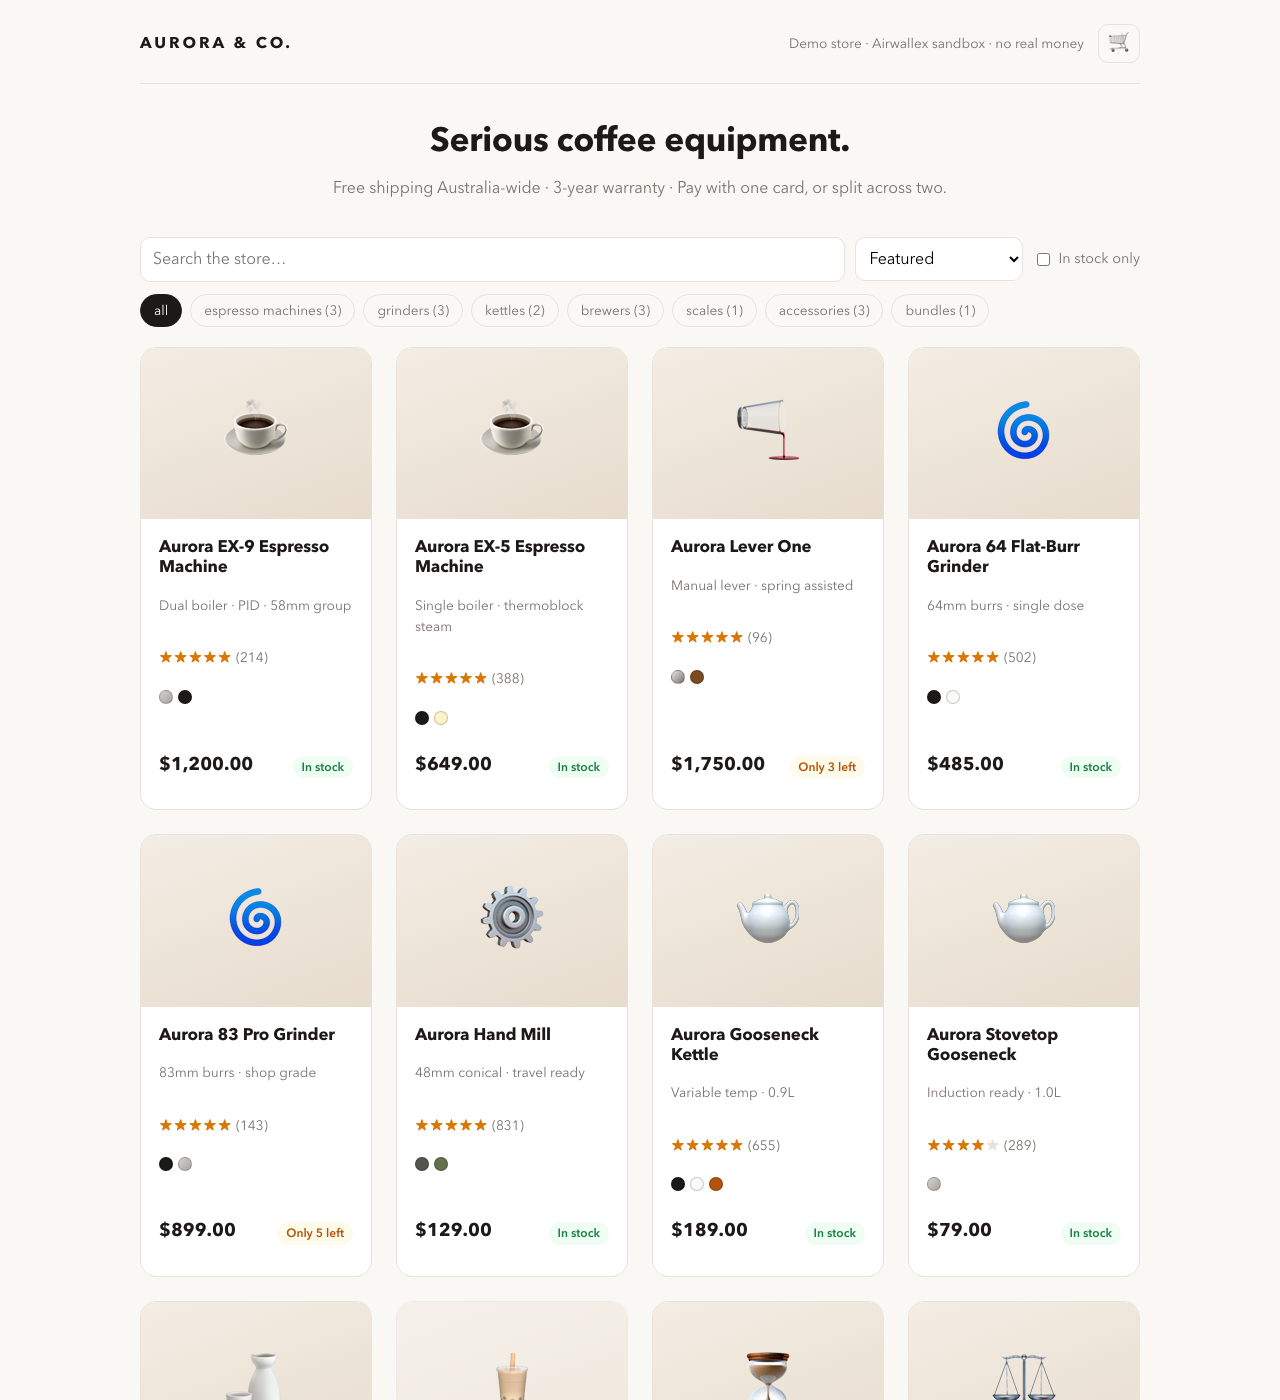
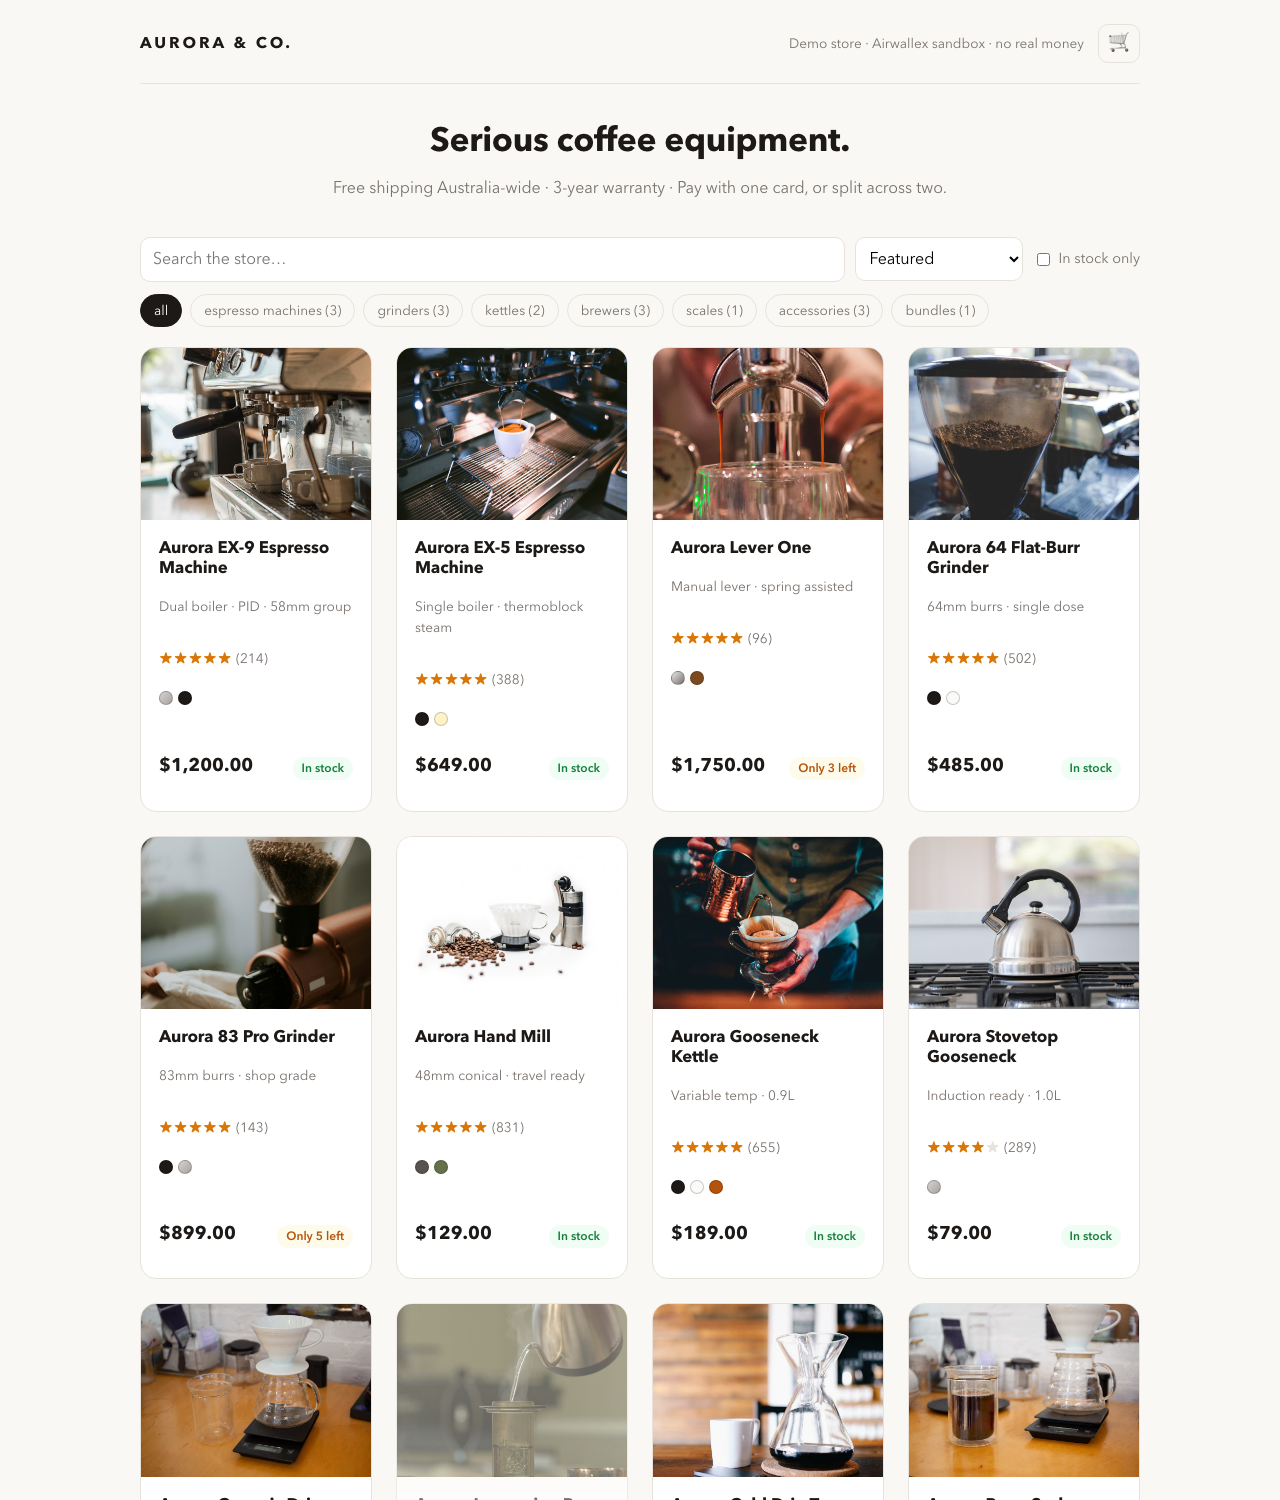
feat: real product photography, openly licensed and hand-curated
Replaces the emoji visuals with photographs sourced via the Openverse
API: fourteen CC0 images from StockSnap and Rawpixel plus two CC BY
from Flickr, every one reviewed by eye before selection, credited in
ATTRIBUTIONS.md, committed to the repo (~650KB total) so the store
stays self-contained. Product cards, detail pages, cart lines, and
checkout summaries all use the photos, and the MCP catalog tools now
return absolute image_url fields so agent clients can render product
cards. Demo GIF re-recorded on the photographic UI.

diff --git a/web/src/App.css b/web/src/App.css
@@ -235,12 +235,33 @@
 }
 
 .product-detail-visual {
-  aspect-ratio: 1;
-  display: grid;
-  place-items: center;
-  font-size: 110px;
+  aspect-ratio: 4 / 3;
   background: linear-gradient(160deg, #f3ede4, #e7dccd);
   border-radius: 18px;
+  overflow: hidden;
+}
+
+.product-detail-visual img {
+  width: 100%;
+  height: 100%;
+  object-fit: cover;
+  display: block;
+}
+
+.cart-line-thumb {
+  width: 56px;
+  height: 56px;
+  object-fit: cover;
+  border-radius: 10px;
+  flex-shrink: 0;
+}
+
+.pay-line-thumb {
+  width: 28px;
+  height: 28px;
+  object-fit: cover;
+  border-radius: 6px;
+  vertical-align: middle;
 }
 
 .detail-category {
@@ -465,11 +486,21 @@
 }
 
 .product-card-visual {
-  display: grid;
-  place-items: center;
-  font-size: 64px;
-  padding: 36px 0;
+  aspect-ratio: 4 / 3;
   background: linear-gradient(160deg, #f3ede4, #e7dccd);
+  overflow: hidden;
+}
+
+.product-card-visual img {
+  width: 100%;
+  height: 100%;
+  object-fit: cover;
+  display: block;
+  transition: transform 200ms;
+}
+
+.product-card:hover .product-card-visual img {
+  transform: scale(1.04);
 }
 
 .product-card-body {

diff --git a/server/src/catalog.ts b/server/src/catalog.ts
@@ -21,8 +21,10 @@ export interface Product {
   reviews: number;
   stock: number;
   tags: string[];
-  /** Emoji used as the product visual, which keeps the demo self-contained. */
+  /** Emoji fallback for compact contexts. */
   art: string;
+  /** Product photo, served from the web build (see ATTRIBUTIONS.md). */
+  image: string;
 }
 
 export type Category =
@@ -37,6 +39,7 @@ export type Category =
 export const PRODUCTS: Product[] = [
   {
     sku: "aurora-ex-9",
+    image: "/products/aurora-ex-9.jpg",
     name: "Aurora EX-9 Espresso Machine",
     category: "espresso machines",
     tagline: "Dual boiler · PID · 58mm group",
@@ -53,6 +56,7 @@ export const PRODUCTS: Product[] = [
   },
   {
     sku: "aurora-ex-5",
+    image: "/products/aurora-ex-5.jpg",
     name: "Aurora EX-5 Espresso Machine",
     category: "espresso machines",
     tagline: "Single boiler · thermoblock steam",
@@ -69,6 +73,7 @@ export const PRODUCTS: Product[] = [
   },
   {
     sku: "aurora-lever-one",
+    image: "/products/aurora-lever-one.jpg",
     name: "Aurora Lever One",
     category: "espresso machines",
     tagline: "Manual lever · spring assisted",
@@ -85,6 +90,7 @@ export const PRODUCTS: Product[] = [
   },
   {
     sku: "aurora-grinder-64",
+    image: "/products/aurora-grinder-64.jpg",
     name: "Aurora 64 Flat-Burr Grinder",
     category: "grinders",
     tagline: "64mm burrs · single dose",
@@ -101,6 +107,7 @@ export const PRODUCTS: Product[] = [
   },
   {
     sku: "aurora-grinder-83",
+    image: "/products/aurora-grinder-83.jpg",
     name: "Aurora 83 Pro Grinder",
     category: "grinders",
     tagline: "83mm burrs · shop grade",
@@ -117,6 +124,7 @@ export const PRODUCTS: Product[] = [
   },
   {
     sku: "aurora-hand-mill",
+    image: "/products/aurora-hand-mill.jpg",
     name: "Aurora Hand Mill",
     category: "grinders",
     tagline: "48mm conical · travel ready",
@@ -133,6 +141,7 @@ export const PRODUCTS: Product[] = [
   },
   {
     sku: "aurora-kettle",
+    image: "/products/aurora-kettle.jpg",
     name: "Aurora Gooseneck Kettle",
     category: "kettles",
     tagline: "Variable temp · 0.9L",
@@ -149,6 +158,7 @@ export const PRODUCTS: Product[] = [
   },
   {
     sku: "aurora-kettle-stove",
+    image: "/products/aurora-kettle-stove.jpg",
     name: "Aurora Stovetop Gooseneck",
     category: "kettles",
     tagline: "Induction ready · 1.0L",
@@ -164,6 +174,7 @@ export const PRODUCTS: Product[] = [
   },
   {
     sku: "aurora-dripper",
+    image: "/products/aurora-dripper.jpg",
     name: "Aurora Ceramic Dripper",
     category: "brewers",
     tagline: "Cone dripper · size 02",
@@ -179,6 +190,7 @@ export const PRODUCTS: Product[] = [
   },
   {
     sku: "aurora-press",
+    image: "/products/aurora-press.jpg",
     name: "Aurora Immersion Press",
     category: "brewers",
     tagline: "Full immersion · 350ml",
@@ -194,6 +206,7 @@ export const PRODUCTS: Product[] = [
   },
   {
     sku: "aurora-cold-tower",
+    image: "/products/aurora-cold-tower.jpg",
     name: "Aurora Cold Drip Tower",
     category: "brewers",
     tagline: "Slow drip · 600ml",
@@ -210,6 +223,7 @@ export const PRODUCTS: Product[] = [
   },
   {
     sku: "aurora-scale",
+    image: "/products/aurora-scale.jpg",
     name: "Aurora Brew Scale",
     category: "scales",
     tagline: "0.1g · auto timer",
@@ -225,6 +239,7 @@ export const PRODUCTS: Product[] = [
   },
   {
     sku: "aurora-tamper",
+    image: "/products/aurora-tamper.jpg",
     name: "Aurora Precision Tamper",
     category: "accessories",
     tagline: "58.5mm · calibrated 15kg",
@@ -240,6 +255,7 @@ export const PRODUCTS: Product[] = [
   },
   {
     sku: "aurora-milk-jug",
+    image: "/products/aurora-milk-jug.jpg",
     name: "Aurora Milk Pitcher",
     category: "accessories",
     tagline: "450ml · sharp spout",
@@ -255,6 +271,7 @@ export const PRODUCTS: Product[] = [
   },
   {
     sku: "aurora-knock-box",
+    image: "/products/aurora-knock-box.jpg",
     name: "Aurora Knock Box",
     category: "accessories",
     tagline: "Solid ash bar · rubber core",
@@ -270,6 +287,7 @@ export const PRODUCTS: Product[] = [
   },
   {
     sku: "aurora-barista-bundle",
+    image: "/products/aurora-barista-bundle.jpg",
     name: "Barista Station Bundle",
     category: "bundles",
     tagline: "EX-9 + 64 grinder + bench kit",

diff --git a/server/src/routes/mcp.ts b/server/src/routes/mcp.ts
@@ -15,6 +15,9 @@ import { TEST_CARD_ALIASES, resolveTestCard } from "../orders/testCards.js";
  * open while the payment tool is hard-gated to published test cards).
  */
 
+/** Absolute base for image links handed to agents. */
+const PUBLIC_URL = (process.env.PUBLIC_URL ?? "https://split-checkout-demo.fly.dev").replace(/\/$/, "");
+
 function orderSummary(order: OrderView) {
   return {
     order_id: order.id,
@@ -87,6 +90,7 @@ export function buildMcpServer(service: OrderService): McpServer {
           reviews: p.reviews,
           stock: p.stock,
           tagline: p.tagline,
+          image_url: `${PUBLIC_URL}${p.image}`,
         })),
         facets: result.facets,
       });
@@ -100,7 +104,7 @@ export function buildMcpServer(service: OrderService): McpServer {
     async ({ sku }) => {
       const product = getProduct(sku);
       if (!product) return asText({ error: `No product with sku ${sku}` });
-      return asText(product);
+      return asText({ ...product, image_url: `${PUBLIC_URL}${product.image}` });
     },
   );
 

diff --git a/web/src/App.tsx b/web/src/App.tsx
@@ -101,7 +101,7 @@ export default function App() {
           i === existing ? { ...l, quantity: Math.min(10, l.quantity + quantity) } : l,
         );
       }
-      return [...prev, { sku: p.sku, name: p.name, price: p.price, quantity, color, art: p.art }];
+      return [...prev, { sku: p.sku, name: p.name, price: p.price, quantity, color, art: p.art, image: p.image }];
     });
     setPhase("cart");
   }
@@ -207,7 +207,7 @@ export default function App() {
           onAddToCart={addToCart}
           onBuyNow={(p, quantity, color) => {
             setCheckoutLines([
-              { sku: p.sku, name: p.name, price: p.price, quantity, color, art: p.art },
+              { sku: p.sku, name: p.name, price: p.price, quantity, color, art: p.art, image: p.image },
             ]);
             setRecoveryHint(false);
             setPhase("pay");
@@ -241,7 +241,7 @@ export default function App() {
             <ul className="pay-lines">
               {checkoutLines.map((l) => (
                 <li key={`${l.sku}-${l.color ?? ""}`}>
-                  <span aria-hidden>{l.art}</span> {l.quantity} × {l.name}
+                  <img className="pay-line-thumb" src={l.image} alt="" /> {l.quantity} × {l.name}
                   {l.color ? ` (${l.color})` : ""}
                   <strong>{fmt(l.price * l.quantity)}</strong>
                 </li>

diff --git a/web/src/components/CartView.tsx b/web/src/components/CartView.tsx
@@ -27,9 +27,7 @@ export function CartView({ cart, onUpdateQty, onRemove, onCheckout, onBack }: Pr
           <ul className="cart-lines">
             {cart.map((line, i) => (
               <li key={`${line.sku}-${line.color ?? ""}`}>
-                <span className="cart-line-art" aria-hidden>
-                  {line.art}
-                </span>
+                <img className="cart-line-thumb" src={line.image} alt="" />
                 <div className="cart-line-info">
                   <strong>{line.name}</strong>
                   {line.color && <span className="muted small"> · {line.color}</span>}

diff --git a/web/src/components/ProductDetail.tsx b/web/src/components/ProductDetail.tsx
@@ -23,8 +23,8 @@ export function ProductDetail({ product, onAddToCart, onBuyNow, onBack }: Props)
         ← Back to store
       </button>
       <div className="product-detail-grid">
-        <div className="product-detail-visual" aria-hidden>
-          {product.art}
+        <div className="product-detail-visual">
+          <img src={product.image} alt={product.name} />
         </div>
         <div>
           <p className="muted small detail-category">{product.category}</p>

diff --git a/web/src/components/ProductGrid.tsx b/web/src/components/ProductGrid.tsx
@@ -117,8 +117,8 @@ export function ProductGrid({ onSelect }: { onSelect: (product: Product) => void
             tabIndex={0}
             onKeyDown={(e) => e.key === "Enter" && onSelect(product)}
           >
-            <div className="product-card-visual" aria-hidden>
-              {product.art}
+            <div className="product-card-visual">
+              <img src={product.image} alt={product.name} loading="lazy" />
             </div>
             <div className="product-card-body">
               <h2>{product.name}</h2>

diff --git a/web/src/types.ts b/web/src/types.ts
@@ -12,6 +12,7 @@ export interface Product {
   stock: number;
   tags: string[];
   art: string;
+  image: string;
 }
 
 export interface SearchResult {
@@ -40,6 +41,7 @@ export interface CartLine {
   quantity: number;
   color?: string;
   art: string;
+  image: string;
 }
 
 export interface OrderItemView {

diff --git a/ATTRIBUTIONS.md b/ATTRIBUTIONS.md
@@ -1,0 +1,22 @@
+# Photo attributions
+
+Product photography comes from openly licensed sources, discovered via the [Openverse](https://openverse.org) API. Most images are CC0 (no attribution required, credited anyway); two are CC BY, credited as required. Images were cropped for the store layout.
+
+| Product | Photo | Creator | License | Source |
+|---|---|---|---|---|
+| aurora-ex-9 | Free coffee machine espresso cups | Unknown | CC0 | [source](https://www.rawpixel.com/image/5926293/photo-image-public-domain-free-drink) |
+| aurora-ex-5 | Espresso Coffee | Burst | CC0 | [source](https://stocksnap.io/photo/espresso-coffee-T2DS9PUWRZ) |
+| aurora-lever-one | Refining Technique | Schill | CC BY | [source](https://www.flickr.com/photos/12289718@N00/14361554062) |
+| aurora-grinder-64 | Espresso Machine | Freestocks.org | CC0 | [source](https://stocksnap.io/photo/espresso-machine-4GO4VAB14Z) |
+| aurora-grinder-83 | Pouring coffee beans grinder cafe | Unknown | CC0 | [source](https://www.rawpixel.com/image/3283295/free-photo-image-coffee-beans-banister) |
+| aurora-hand-mill | Coffee Bean | Joshua Davis | CC0 | [source](https://stocksnap.io/photo/coffee-bean-YCXG0DHVD4) |
+| aurora-kettle | Barista Pourover | Burst | CC0 | [source](https://stocksnap.io/photo/barista-pourover-6B1SUAYDO1) |
+| aurora-kettle-stove | Kitchen Teapot | Matt Bango | CC0 | [source](https://stocksnap.io/photo/kitchen-teapot-ND9JSEK2QN) |
+| aurora-dripper | Pour Over | Kristin Hardwick | CC0 | [source](https://stocksnap.io/photo/pour-over-0PZDINJEXE) |
+| aurora-press | Barista making aeropress coffee | Unknown | CC0 | [source](https://www.rawpixel.com/image/6039166/photo-image-public-domain-person-glass) |
+| aurora-cold-tower | Free hourglass coffee jar photo | Unknown | CC0 | [source](https://www.rawpixel.com/image/[phone redacted]/photo-image-phone-public-domain-person) |
+| aurora-scale | Pour Over | Kristin Hardwick | CC0 | [source](https://stocksnap.io/photo/pour-over-UE2INO4TXK) |
+| aurora-tamper | Espresso Tamper | Someone's Name | CC BY | [source](https://www.flickr.com/photos/161858145@N08/33851297168) |
+| aurora-milk-jug | Barista Latte | Burst | CC0 | [source](https://stocksnap.io/photo/barista-latte-DTKOOFPC06) |
+| aurora-knock-box | Ground coffee beans portafilter | Unknown | CC0 | [source](https://www.rawpixel.com/image/6042184/photo-image-public-domain-coffee-free) |
+| aurora-barista-bundle | Espresso Machine | Markus Spiske | CC0 | [source](https://stocksnap.io/photo/espresso-machine-T0I4B840UM) |

diff --git a/DECISIONS.md b/DECISIONS.md
@@ -198,3 +198,13 @@ Every non-obvious choice in this project, dated, with the alternatives considere
 **Why:** Once the agentic mode became the differentiator, catalog realism became payment-demo realism: "find a matte-black grinder under $500 in stock and split it across my cards" exercises search, filtering, variant selection, basket assembly, and split payment in one sentence, which is the demo arc the successful agent-shopping products (ChatGPT shopping, Perplexity, Amazon's agents) all converge on. Design choices follow the field's emerging conventions deliberately: tool names and shapes mirror Shopify's storefront MCP (`search_catalog`, `get_product`, open browse tools with the payment step guarded), and Streamable HTTP is the current standard for remote MCP servers. The research behind this also sharpened the pitch: OpenAI/Stripe's ACP, Google's UCP, and AP2 all model a single payment credential per checkout; none covers splitting one purchase across funding sources.
 
 **Trade-offs accepted:** stock is validated but never decremented (a demo store must not wedge itself empty); the even-split option distributes remainder cents to the first cards; catalog search is in-memory over sixteen products, which is honest for a catalog that fits in one file.
+
+---
+
+## 2026-07-03: Real product photography, curated from open licenses
+
+**Decision:** The emoji product visuals were replaced with real photographs, sourced through the Openverse API and restricted to permissive licenses (fourteen CC0 from StockSnap and Rawpixel, two CC BY from Flickr, credited in ATTRIBUTIONS.md). Every image was reviewed by eye before selection; images are committed to the repo (about 650KB total at 900px) so the store stays self-contained, and the MCP catalog tools return absolute `image_url`s so agents can render product cards.
+
+**Alternatives:** Unsplash and Pexels have the best free product photography but block programmatic search, and hotlinking guessed CDN URLs risks broken or wrong images. AI-generated product shots were rejected outright: they read as fake at a glance, and a payments demo trades entirely on looking real. General open-license search (all Flickr sources) was tried first and produced amateur clutter unfit for a storefront.
+
+**Why it matters beyond looks:** a store that photographs like a real store makes the payment flows read as real, and the agent demo now returns product images an MCP client can display. The curation rule was strict: a wrong-but-pretty photo loses to nothing, and each photo had to plausibly *be* the product it sells.

diff --git a/README.md b/README.md
@@ -174,4 +174,4 @@ This is a demo of the core mechanism, not a finished product. Production would a
 
 ## Disclaimer
 
-This is an independent demo built against Airwallex's public sandbox API for exploration and discussion. It is not an Airwallex product and is not affiliated with, endorsed by, or sponsored by Airwallex. No real cards and no real money; Airwallex's published test cards only.
+This is an independent demo built against Airwallex's public sandbox API for exploration and discussion. It is not an Airwallex product and is not affiliated with, endorsed by, or sponsored by Airwallex. No real cards and no real money; Airwallex's published test cards only. Product photography is openly licensed; see [ATTRIBUTIONS.md](ATTRIBUTIONS.md).